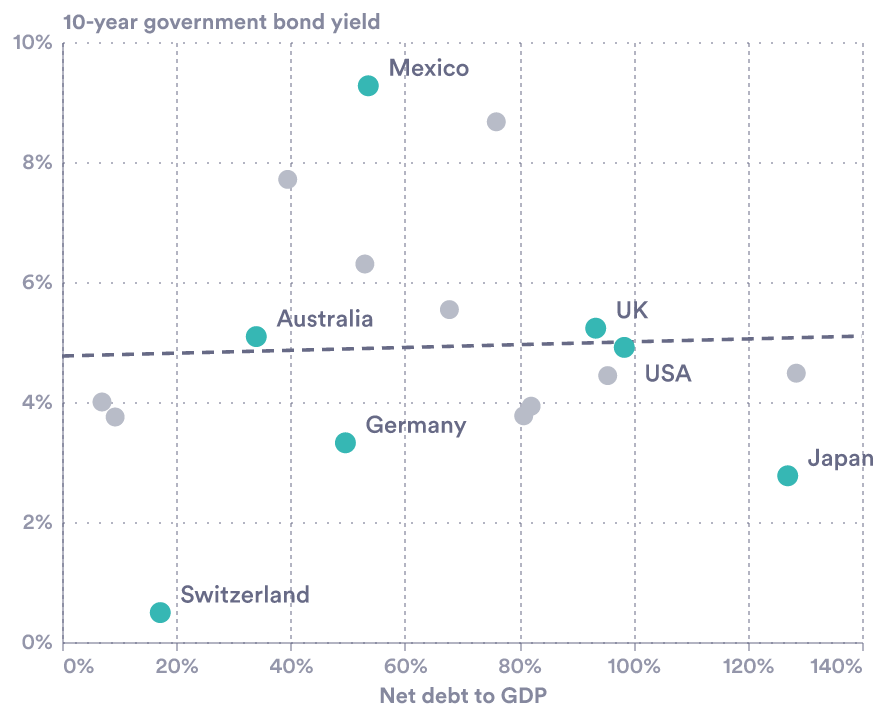
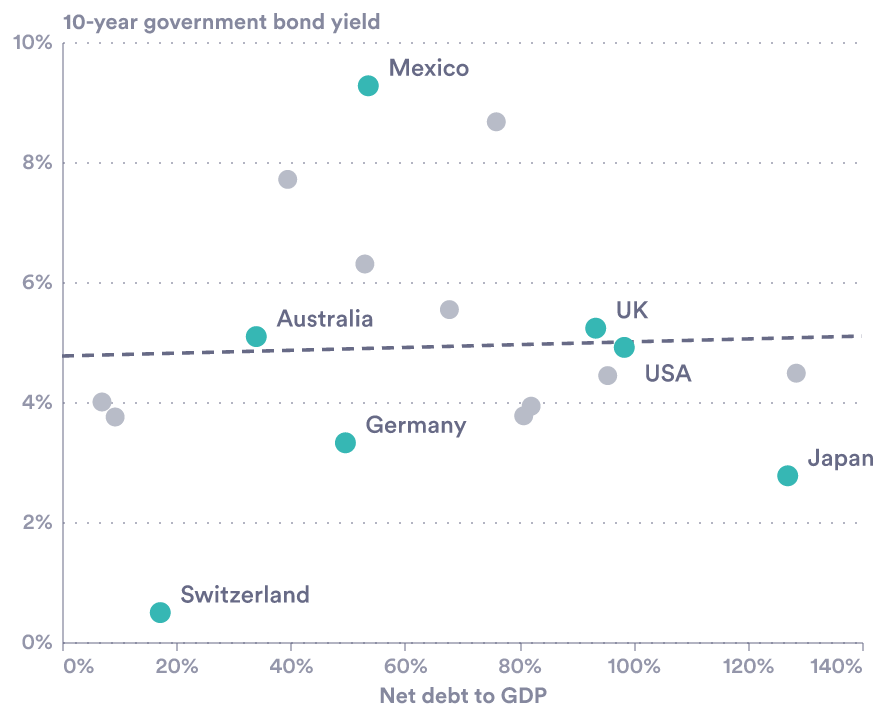
edits

diff --git a/Debt 2026/Peterson Blogs/Vince Cable/charts/debt_and_bond_yields_2026.html b/Debt 2026/Peterson Blogs/Vince Cable/charts/debt_and_bond_yields_2026.html
@@ -21,7 +21,7 @@
   <div id="vis"></div>
   <script>
     (function(vegaEmbed) {
-      var spec = {"config": {"font": "Circular Std, Helvetica Neue, Helvetica, Arial, sans-serif", "text": {"color": "#676A86", "align": "left", "baseline": "middle", "dx": 7, "dy": 0, "fontSize": 11}, "view": {"stroke": "transparent", "continuousWidth": 400, "continuousHeight": 300, "discreteWidth": 400, "discreteHeight": 300, "fill": "transparent"}, "range": {"category": ["#36B7B4", "#E6224B", "#F4C245", "#0063AF", "#00A767", "#179FDB", "#EB5C2E"], "diverging": ["#E6224B", "#E54753", "#C9C9C9", "#179FDB", "#122B39"], "heatmap": ["#C9C9C9", "#179FDB", "#0063AF", "#122B39"], "ordinal": ["#00A767", "#36B7B4", "#179FDB", "#0063AF", "#243B5A"]}, "bar": {"color": "#179fdb"}, "line": {"color": "#e6224b"}, "rule": {"color": "#676A86"}, "area": {"opacity": 0.3}, "point": {"filled": true, "size": 80, "color": "#e6224b", "opacity": 0.95}, "geoshape": {"stroke": "white", "strokeWidth": 0.3}, "rect": {"fill": "#d6d4d4", "opacity": 0.3}, "axis": {"labelColor": "#676A86", "labelFontSize": 11, "labelFont": "Circular Std", "labelOpacity": 0.7, "tickColor": "#676A86", "tickOpacity": 0.5, "domainColor": "#676A86", "domainOpacity": 0.5, "gridColor": "#676A86", "gridDash": [2, 2], "gridOpacity": 0.5, "title": null, "titleColor": "#676A86", "titleOpacity": 0.8, "tickSize": 4}, "axisXDiscrete": {"grid": false, "labelAngle": 0, "tickCount": 10, "tickOpacity": 0.5, "title": null}, "axisYDiscrete": {"ticks": false, "labelPadding": 5}, "axisXTemporal": {"grid": false, "ticks": true}, "axisXQuantitative": {"grid": true}, "axisYQuantitative": {"gridColor": "#676A86", "gridDash": [1, 5], "gridOpacity": 0.5, "ticks": false, "labelPadding": 5, "tickCount": 8, "titleAngle": 0, "titleAlign": "left", "titleBaseline": "bottom", "titleX": 0, "titleY": -5}, "title": {"color": "#676A86E6", "subtitleColor": "#676A86", "font": "Circular Std", "subtitleFont": "Circular Std", "anchor": "start", "fontSize": 14, "subtitleFontSize": 12, "subtitlePadding": 4, "offset": 0, "frame": "group"}, "legend": {"titleColor": "#122b39", "title": null, "labelColor": "#122b39", "labelFontSize": 11}, "background": "white"}, "layer": [{"data": {"name": "data-8083ae706d5084df5a6389e74f02eec0"}, "mark": {"type": "line", "color": "#676A86", "strokeDash": [6, 4], "strokeWidth": 1.8}, "encoding": {"x": {"axis": {"labelExpr": "datum.value + '%'", "values": [0, 20, 40, 60, 80, 100, 120, 140]}, "field": "net_debt_gdp", "scale": {"domain": [0, 140], "nice": false}, "title": "Net debt to GDP", "type": "quantitative"}, "y": {"axis": {"labelExpr": "datum.value + '%'", "values": [0, 2, 4, 6, 8, 10]}, "field": "fit", "scale": {"domain": [0, 10], "nice": false}, "title": "10-year government bond yield", "type": "quantitative"}}}, {"data": {"name": "data-b47b5c158e3f0affc18d3619171970a4"}, "mark": {"type": "circle", "color": "#B8BCC8", "opacity": 1, "size": 90}, "encoding": {"tooltip": [{"field": "country", "title": "Economy", "type": "nominal"}, {"field": "net_debt_gdp", "format": ".0f", "title": "Net debt (% of GDP)", "type": "quantitative"}, {"field": "yield_10y", "format": ".2f", "title": "10-year yield (%)", "type": "quantitative"}], "x": {"axis": {"labelExpr": "datum.value + '%'", "values": [0, 20, 40, 60, 80, 100, 120, 140]}, "field": "net_debt_gdp", "scale": {"domain": [0, 140], "nice": false}, "title": "Net debt to GDP", "type": "quantitative"}, "y": {"axis": {"labelExpr": "datum.value + '%'", "values": [0, 2, 4, 6, 8, 10]}, "field": "yield_10y", "scale": {"domain": [0, 10], "nice": false}, "title": "10-year government bond yield", "type": "quantitative"}}}, {"data": {"name": "data-be372c7c1a4327e7238b5f3951b50213"}, "mark": {"type": "circle", "opacity": 1, "size": 110}, "encoding": {"color": {"field": "group", "legend": null, "type": "nominal"}, "tooltip": [{"field": "country", "title": "Economy", "type": "nominal"}, {"field": "net_debt_gdp", "format": ".0f", "title": "Net debt (% of GDP)", "type": "quantitative"}, {"field": "yield_10y", "format": ".2f", "title": "10-year yield (%)", "type": "quantitative"}], "x": {"axis": {"labelExpr": "datum.value + '%'", "values": [0, 20, 40, 60, 80, 100, 120, 140]}, "field": "net_debt_gdp", "scale": {"domain": [0, 140], "nice": false}, "title": "Net debt to GDP", "type": "quantitative"}, "y": {"axis": {"labelExpr": "datum.value + '%'", "values": [0, 2, 4, 6, 8, 10]}, "field": "yield_10y", "scale": {"domain": [0, 10], "nice": false}, "title": "10-year government bond yield", "type": "quantitative"}}}, {"layer": [{"data": {"name": "data-03dc2248444354cd74306319d2abad88"}, "mark": {"type": "text", "align": "left", "baseline": "middle", "color": "#676A86", "dx": 10, "dy": -9, "fontSize": 12}, "encoding": {"text": {"field": "label", "type": "nominal"}, "x": {"axis": {"labelExpr": "datum.value + '%'", "values": [0, 20, 40, 60, 80, 100, 120, 140]}, "field": "net_debt_gdp", "scale": {"domain": [0, 140], "nice": false}, "title": "Net debt to GDP", "type": "quantitative"}, "y": {"axis": {"labelExpr": "datum.value + '%'", "values": [0, 2, 4, 6, 8, 10]}, "field": "yield_10y", "scale": {"domain": [0, 10], "nice": false}, "title": "10-year government bond yield", "type": "quantitative"}}}, {"data": {"name": "data-22adf7d5a78068ea1838855c3482f5e3"}, "mark": {"type": "text", "align": "left", "baseline": "middle", "color": "#676A86", "dx": 10, "dy": 13, "fontSize": 12}, "encoding": {"text": {"field": "label", "type": "nominal"}, "x": {"axis": {"labelExpr": "datum.value + '%'", "values": [0, 20, 40, 60, 80, 100, 120, 140]}, "field": "net_debt_gdp", "scale": {"domain": [0, 140], "nice": false}, "title": "Net debt to GDP", "type": "quantitative"}, "y": {"axis": {"labelExpr": "datum.value + '%'", "values": [0, 2, 4, 6, 8, 10]}, "field": "yield_10y", "scale": {"domain": [0, 10], "nice": false}, "title": "10-year government bond yield", "type": "quantitative"}}}]}], "height": 300, "width": 400, "$schema": "https://vega.github.io/schema/vega-lite/v6.4.1.json", "datasets": {"data-8083ae706d5084df5a6389e74f02eec0": [{"net_debt_gdp": 0.0, "fit": 4.76651729406912}, {"net_debt_gdp": 140.0, "fit": 5.098582397075766}], "data-b47b5c158e3f0affc18d3619171970a4": [{"net_debt_gdp": 128.5, "yield_10y": 4.48, "country": "Italy"}, {"net_debt_gdp": 9.3, "yield_10y": 3.75, "country": "Canada"}, {"net_debt_gdp": 7.0, "yield_10y": 4.0, "country": "South Korea"}, {"net_debt_gdp": 39.5, "yield_10y": 7.71, "country": "Indonesia"}, {"net_debt_gdp": 76.0, "yield_10y": 8.67, "country": "South Africa"}, {"net_debt_gdp": 82.1, "yield_10y": 3.93, "country": "Spain"}, {"net_debt_gdp": 95.5, "yield_10y": 4.44, "country": "Belgium"}, {"net_debt_gdp": 80.8, "yield_10y": 3.77, "country": "Portugal"}, {"net_debt_gdp": 53.0, "yield_10y": 6.3, "country": "Poland"}, {"net_debt_gdp": 67.8, "yield_10y": 5.54, "country": "Hungary"}], "data-be372c7c1a4327e7238b5f3951b50213": [{"net_debt_gdp": 98.4, "yield_10y": 4.91, "country": "United States", "label": "USA", "group": "focus"}, {"net_debt_gdp": 93.4, "yield_10y": 5.23, "country": "UK", "label": "UK", "group": "focus"}, {"net_debt_gdp": 127.0, "yield_10y": 2.77, "country": "Japan", "label": "Japan", "group": "focus"}, {"net_debt_gdp": 49.6, "yield_10y": 3.32, "country": "Germany", "label": "Germany", "group": "focus"}, {"net_debt_gdp": 34.0, "yield_10y": 5.09, "country": "Australia", "label": "Australia", "group": "focus"}, {"net_debt_gdp": 17.2, "yield_10y": 0.49, "country": "Switzerland", "label": "Switzerland", "group": "focus"}, {"net_debt_gdp": 53.6, "yield_10y": 9.27, "country": "Mexico", "label": "Mexico", "group": "focus"}], "data-03dc2248444354cd74306319d2abad88": [{"net_debt_gdp": 93.4, "yield_10y": 5.23, "country": "UK", "label": "UK", "group": "focus"}, {"net_debt_gdp": 127.0, "yield_10y": 2.77, "country": "Japan", "label": "Japan", "group": "focus"}, {"net_debt_gdp": 49.6, "yield_10y": 3.32, "country": "Germany", "label": "Germany", "group": "focus"}, {"net_debt_gdp": 34.0, "yield_10y": 5.09, "country": "Australia", "label": "Australia", "group": "focus"}, {"net_debt_gdp": 17.2, "yield_10y": 0.49, "country": "Switzerland", "label": "Switzerland", "group": "focus"}, {"net_debt_gdp": 53.6, "yield_10y": 9.27, "country": "Mexico", "label": "Mexico", "group": "focus"}], "data-22adf7d5a78068ea1838855c3482f5e3": [{"net_debt_gdp": 98.4, "yield_10y": 4.91, "country": "United States", "label": "USA", "group": "focus"}]}};
+      var spec = {"config": {"font": "Circular Std, Helvetica Neue, Helvetica, Arial, sans-serif", "text": {"color": "#676A86", "align": "left", "baseline": "middle", "dx": 7, "dy": 0, "fontSize": 11}, "view": {"stroke": "transparent", "continuousWidth": 400, "continuousHeight": 300, "discreteWidth": 400, "discreteHeight": 300, "fill": "transparent"}, "range": {"category": ["#36B7B4", "#E6224B", "#F4C245", "#0063AF", "#00A767", "#179FDB", "#EB5C2E"], "diverging": ["#E6224B", "#E54753", "#C9C9C9", "#179FDB", "#122B39"], "heatmap": ["#C9C9C9", "#179FDB", "#0063AF", "#122B39"], "ordinal": ["#00A767", "#36B7B4", "#179FDB", "#0063AF", "#243B5A"]}, "bar": {"color": "#179fdb"}, "line": {"color": "#e6224b"}, "rule": {"color": "#676A86"}, "area": {"opacity": 0.3}, "point": {"filled": true, "size": 80, "color": "#e6224b", "opacity": 0.95}, "geoshape": {"stroke": "white", "strokeWidth": 0.3}, "rect": {"fill": "#d6d4d4", "opacity": 0.3}, "axis": {"labelColor": "#676A86", "labelFontSize": 11, "labelFont": "Circular Std", "labelOpacity": 0.7, "tickColor": "#676A86", "tickOpacity": 0.5, "domainColor": "#676A86", "domainOpacity": 0.5, "gridColor": "#676A86", "gridDash": [2, 2], "gridOpacity": 0.5, "title": null, "titleColor": "#676A86", "titleOpacity": 0.8, "tickSize": 4}, "axisXDiscrete": {"grid": false, "labelAngle": 0, "tickCount": 10, "tickOpacity": 0.5, "title": null}, "axisYDiscrete": {"ticks": false, "labelPadding": 5}, "axisXTemporal": {"grid": false, "ticks": true}, "axisXQuantitative": {"grid": true}, "axisYQuantitative": {"gridColor": "#676A86", "gridDash": [1, 5], "gridOpacity": 0.5, "ticks": false, "labelPadding": 5, "tickCount": 8, "titleAngle": 0, "titleAlign": "left", "titleBaseline": "bottom", "titleX": 0, "titleY": -5}, "title": {"color": "#676A86E6", "subtitleColor": "#676A86", "font": "Circular Std", "subtitleFont": "Circular Std", "anchor": "start", "fontSize": 14, "subtitleFontSize": 12, "subtitlePadding": 4, "offset": 0, "frame": "group"}, "legend": {"titleColor": "#122b39", "title": null, "labelColor": "#122b39", "labelFontSize": 11}, "background": "white"}, "layer": [{"data": {"name": "data-8083ae706d5084df5a6389e74f02eec0"}, "mark": {"type": "line", "color": "#676A86", "strokeDash": [6, 4], "strokeWidth": 1.8}, "encoding": {"x": {"axis": {"grid": false, "labelExpr": "datum.value + '%'", "values": [0, 20, 40, 60, 80, 100, 120, 140]}, "field": "net_debt_gdp", "scale": {"domain": [0, 140], "nice": false}, "title": "Net debt to GDP", "type": "quantitative"}, "y": {"axis": {"labelExpr": "datum.value + '%'", "values": [0, 2, 4, 6, 8, 10]}, "field": "fit", "scale": {"domain": [0, 10], "nice": false}, "title": "10-year government bond yield", "type": "quantitative"}}}, {"data": {"name": "data-b47b5c158e3f0affc18d3619171970a4"}, "mark": {"type": "circle", "color": "#B8BCC8", "opacity": 1, "size": 90}, "encoding": {"tooltip": [{"field": "country", "title": "Economy", "type": "nominal"}, {"field": "net_debt_gdp", "format": ".0f", "title": "Net debt (% of GDP)", "type": "quantitative"}, {"field": "yield_10y", "format": ".2f", "title": "10-year yield (%)", "type": "quantitative"}], "x": {"axis": {"grid": false, "labelExpr": "datum.value + '%'", "values": [0, 20, 40, 60, 80, 100, 120, 140]}, "field": "net_debt_gdp", "scale": {"domain": [0, 140], "nice": false}, "title": "Net debt to GDP", "type": "quantitative"}, "y": {"axis": {"labelExpr": "datum.value + '%'", "values": [0, 2, 4, 6, 8, 10]}, "field": "yield_10y", "scale": {"domain": [0, 10], "nice": false}, "title": "10-year government bond yield", "type": "quantitative"}}}, {"data": {"name": "data-be372c7c1a4327e7238b5f3951b50213"}, "mark": {"type": "circle", "opacity": 1, "size": 110}, "encoding": {"color": {"field": "group", "legend": null, "type": "nominal"}, "tooltip": [{"field": "country", "title": "Economy", "type": "nominal"}, {"field": "net_debt_gdp", "format": ".0f", "title": "Net debt (% of GDP)", "type": "quantitative"}, {"field": "yield_10y", "format": ".2f", "title": "10-year yield (%)", "type": "quantitative"}], "x": {"axis": {"grid": false, "labelExpr": "datum.value + '%'", "values": [0, 20, 40, 60, 80, 100, 120, 140]}, "field": "net_debt_gdp", "scale": {"domain": [0, 140], "nice": false}, "title": "Net debt to GDP", "type": "quantitative"}, "y": {"axis": {"labelExpr": "datum.value + '%'", "values": [0, 2, 4, 6, 8, 10]}, "field": "yield_10y", "scale": {"domain": [0, 10], "nice": false}, "title": "10-year government bond yield", "type": "quantitative"}}}, {"layer": [{"data": {"name": "data-03dc2248444354cd74306319d2abad88"}, "mark": {"type": "text", "align": "left", "baseline": "middle", "color": "#676A86", "dx": 10, "dy": -9, "fontSize": 12}, "encoding": {"text": {"field": "label", "type": "nominal"}, "x": {"axis": {"grid": false, "labelExpr": "datum.value + '%'", "values": [0, 20, 40, 60, 80, 100, 120, 140]}, "field": "net_debt_gdp", "scale": {"domain": [0, 140], "nice": false}, "title": "Net debt to GDP", "type": "quantitative"}, "y": {"axis": {"labelExpr": "datum.value + '%'", "values": [0, 2, 4, 6, 8, 10]}, "field": "yield_10y", "scale": {"domain": [0, 10], "nice": false}, "title": "10-year government bond yield", "type": "quantitative"}}}, {"data": {"name": "data-22adf7d5a78068ea1838855c3482f5e3"}, "mark": {"type": "text", "align": "left", "baseline": "middle", "color": "#676A86", "dx": 10, "dy": 13, "fontSize": 12}, "encoding": {"text": {"field": "label", "type": "nominal"}, "x": {"axis": {"grid": false, "labelExpr": "datum.value + '%'", "values": [0, 20, 40, 60, 80, 100, 120, 140]}, "field": "net_debt_gdp", "scale": {"domain": [0, 140], "nice": false}, "title": "Net debt to GDP", "type": "quantitative"}, "y": {"axis": {"labelExpr": "datum.value + '%'", "values": [0, 2, 4, 6, 8, 10]}, "field": "yield_10y", "scale": {"domain": [0, 10], "nice": false}, "title": "10-year government bond yield", "type": "quantitative"}}}]}], "height": 300, "width": 400, "$schema": "https://vega.github.io/schema/vega-lite/v6.4.1.json", "datasets": {"data-8083ae706d5084df5a6389e74f02eec0": [{"net_debt_gdp": 0.0, "fit": 4.76651729406912}, {"net_debt_gdp": 140.0, "fit": 5.098582397075766}], "data-b47b5c158e3f0affc18d3619171970a4": [{"net_debt_gdp": 128.5, "yield_10y": 4.48, "country": "Italy"}, {"net_debt_gdp": 9.3, "yield_10y": 3.75, "country": "Canada"}, {"net_debt_gdp": 7.0, "yield_10y": 4.0, "country": "South Korea"}, {"net_debt_gdp": 39.5, "yield_10y": 7.71, "country": "Indonesia"}, {"net_debt_gdp": 76.0, "yield_10y": 8.67, "country": "South Africa"}, {"net_debt_gdp": 82.1, "yield_10y": 3.93, "country": "Spain"}, {"net_debt_gdp": 95.5, "yield_10y": 4.44, "country": "Belgium"}, {"net_debt_gdp": 80.8, "yield_10y": 3.77, "country": "Portugal"}, {"net_debt_gdp": 53.0, "yield_10y": 6.3, "country": "Poland"}, {"net_debt_gdp": 67.8, "yield_10y": 5.54, "country": "Hungary"}], "data-be372c7c1a4327e7238b5f3951b50213": [{"net_debt_gdp": 98.4, "yield_10y": 4.91, "country": "United States", "label": "USA", "group": "focus"}, {"net_debt_gdp": 93.4, "yield_10y": 5.23, "country": "UK", "label": "UK", "group": "focus"}, {"net_debt_gdp": 127.0, "yield_10y": 2.77, "country": "Japan", "label": "Japan", "group": "focus"}, {"net_debt_gdp": 49.6, "yield_10y": 3.32, "country": "Germany", "label": "Germany", "group": "focus"}, {"net_debt_gdp": 34.0, "yield_10y": 5.09, "country": "Australia", "label": "Australia", "group": "focus"}, {"net_debt_gdp": 17.2, "yield_10y": 0.49, "country": "Switzerland", "label": "Switzerland", "group": "focus"}, {"net_debt_gdp": 53.6, "yield_10y": 9.27, "country": "Mexico", "label": "Mexico", "group": "focus"}], "data-03dc2248444354cd74306319d2abad88": [{"net_debt_gdp": 93.4, "yield_10y": 5.23, "country": "UK", "label": "UK", "group": "focus"}, {"net_debt_gdp": 127.0, "yield_10y": 2.77, "country": "Japan", "label": "Japan", "group": "focus"}, {"net_debt_gdp": 49.6, "yield_10y": 3.32, "country": "Germany", "label": "Germany", "group": "focus"}, {"net_debt_gdp": 34.0, "yield_10y": 5.09, "country": "Australia", "label": "Australia", "group": "focus"}, {"net_debt_gdp": 17.2, "yield_10y": 0.49, "country": "Switzerland", "label": "Switzerland", "group": "focus"}, {"net_debt_gdp": 53.6, "yield_10y": 9.27, "country": "Mexico", "label": "Mexico", "group": "focus"}], "data-22adf7d5a78068ea1838855c3482f5e3": [{"net_debt_gdp": 98.4, "yield_10y": 4.91, "country": "United States", "label": "USA", "group": "focus"}]}};
       var embedOpt = {"mode": "vega-lite"};
 
       function showError(el, error){
